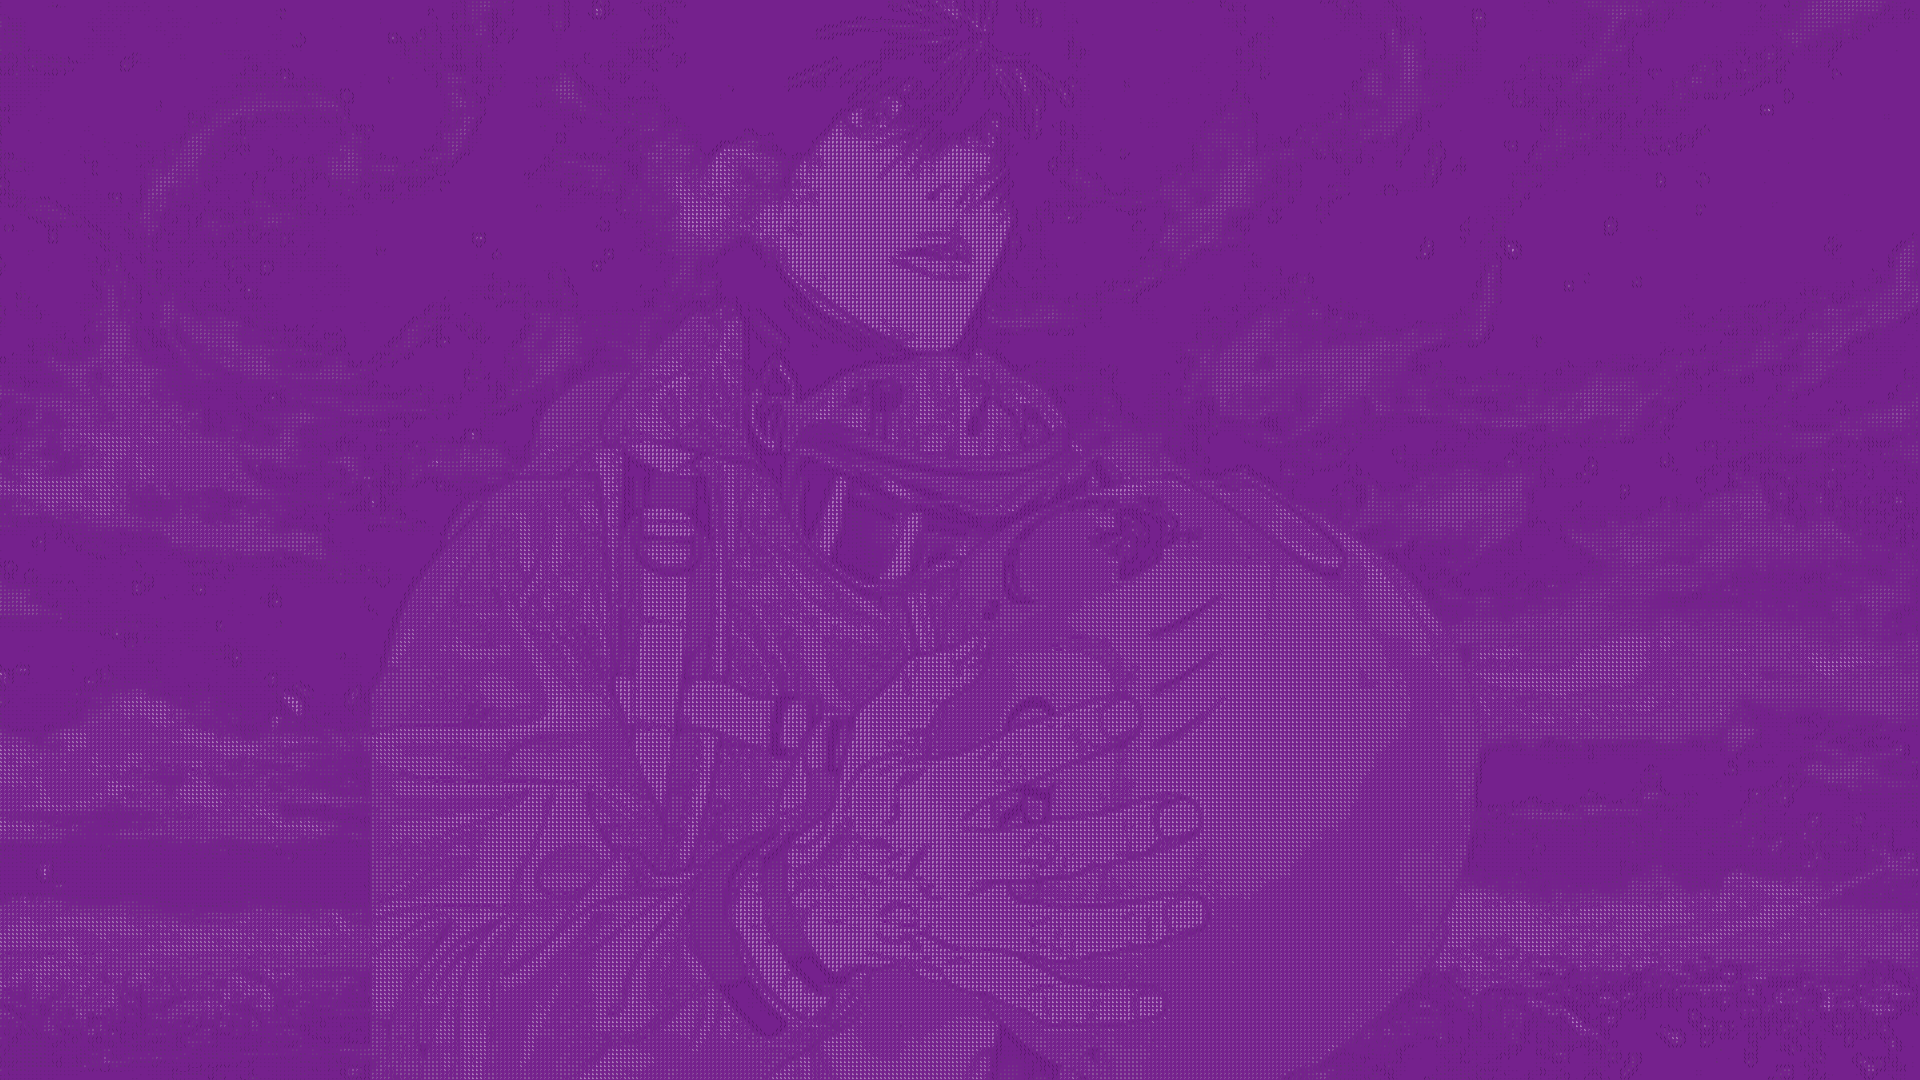
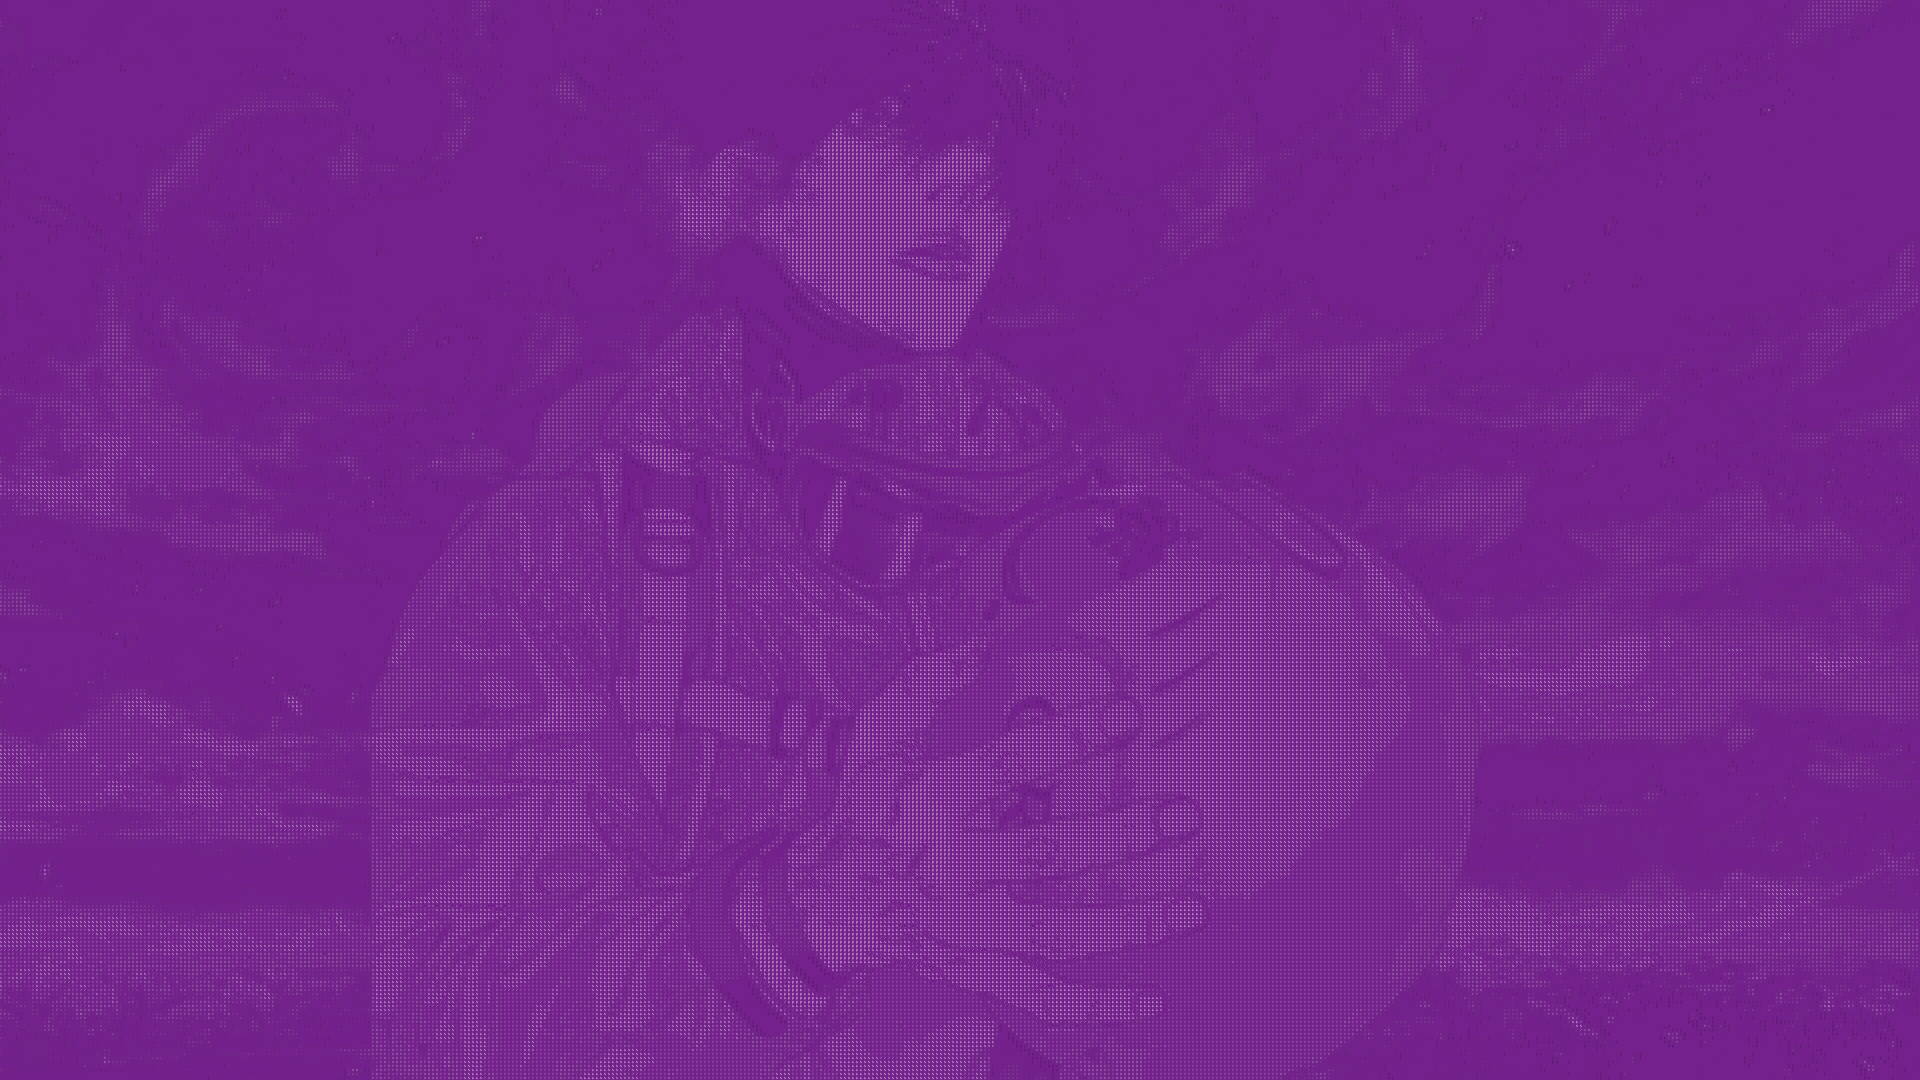
optimize image to arr conversion

diff --git a/src/ascii/converter.rs b/src/ascii/converter.rs
@@ -10,6 +10,8 @@ use image::io::Reader as ImageReader;
 use image::{DynamicImage, GenericImageView, ImageBuffer, Pixel, Rgb};
 use imageproc::drawing::draw_text_mut;
 use ndarray::{ArrayView2, Zip};
+use rayon::prelude::*;
+use std::sync::{Arc, Mutex};
 
 pub struct Converter {
     font_settings: FontSettings,
@@ -72,43 +74,68 @@ impl Converter {
     fn arr_to_img(
         &self,
         arr: &ArrayView2<char>,
-        arr_img: DynamicImage, // arr_img must be the same size as arr
+        arr_img: &DynamicImage,
     ) -> Result<ImageBuffer<Rgb<u8>, Vec<u8>>, ConvertError> {
-        let (h, w): (u32, u32) = (
+        let (h, w) = (
             arr.shape()[0] as u32 * self.font_settings.font_size,
             arr.shape()[1] as u32 * self.font_settings.font_size,
         );
 
-        let mut ascii_bufr =
-            ImageBuffer::<Rgb<u8>, Vec<u8>>::from_fn(w, h, |_, _| self.bg_color.clone());
+        let ascii_bufr = Arc::new(Mutex::new(ImageBuffer::<Rgb<u8>, Vec<u8>>::from_pixel(
+            w,
+            h,
+            self.bg_color.clone(),
+        )));
 
-        // Load font
         let (font, scale) = FontLoader::load_font_from_settings(&self.font_settings)?;
 
-        let mut color = self.color;
+        let font_size = self.font_settings.font_size;
+        let use_image_color = self.use_image_color;
+        let bg_color = self.bg_color;
+        let color = self.color;
 
-        for (y, row) in arr.outer_iter().enumerate() {
-            for (x, &ch) in row.iter().enumerate() {
-                let x_as_u32 = x as u32;
-                let y_as_u32 = y as u32;
+        arr.outer_iter()
+            .enumerate()
+            .collect::<Vec<_>>() // Collect rows to maintain order since par_iter might not preserve order
+            .par_iter() // Process rows in parallel
+            .for_each(|(y, row)| {
+                let mut local_bufr = ImageBuffer::from_pixel(w, font_size, bg_color.clone());
+                for (x, &ch) in row.iter().enumerate() {
+                    let x_pos = (x as u32 * font_size) as i32;
+                    let y_pos = 0; // local y position in the row buffer
 
-                if self.use_image_color {
-                    color = arr_img.get_pixel(x_as_u32, y_as_u32).to_rgb();
+                    let mut local_color = color.clone();
+                    if use_image_color {
+                        local_color = arr_img.get_pixel(x as u32, *y as u32).to_rgb();
+                    }
+                    draw_text_mut(
+                        &mut local_bufr,
+                        local_color,
+                        x_pos,
+                        y_pos,
+                        scale,
+                        &font,
+                        &ch.to_string(),
+                    );
                 }
 
-                draw_text_mut(
-                    &mut ascii_bufr,
-                    color,
-                    (x_as_u32 * self.font_settings.font_size) as i32,
-                    (y_as_u32 * self.font_settings.font_size) as i32,
-                    scale,
-                    &font,
-                    &ch.to_string(),
-                );
-            }
-        }
+                let mut ascii_bufr_lock = ascii_bufr.lock().unwrap();
 
-        Ok(ascii_bufr)
+                // Calculate the starting Y position for this row in the final image buffer
+                let start_y = *y as u32 * font_size;
+
+                // Merge the processed row into the final image buffer at the correct position
+                for (x, y, pixel) in local_bufr.enumerate_pixels() {
+                    ascii_bufr_lock.put_pixel(x, y + start_y, *pixel);
+                }
+            });
+
+        let final_bufr = Arc::try_unwrap(ascii_bufr)
+            .expect("Arc unwrap failed")
+            .into_inner()
+            .unwrap();
+
+        Ok(final_bufr)
     }
 
     pub fn convert_img(
@@ -182,7 +209,7 @@ impl Converter {
                 }
             });
 
-        let ascii_img = self.arr_to_img(&ds_edge_arr.view(), resized_img)?;
+        let ascii_img = self.arr_to_img(&ds_edge_arr.view(), &resized_img)?;
 
         // Save image
         ascii_img.save(out)?;

diff --git a/src/image_manip/edge_detect.rs b/src/image_manip/edge_detect.rs
@@ -55,45 +55,23 @@ impl EdgeDetect<u8, u8> for Sobel {
                 *theta_norm = (theta / PI) * 0.5 + 0.5;
             });
 
-        let space_mask = theta_arr_norm.mapv(|x| x == 0.5);
-        let vert_mask = theta_arr_norm.mapv(|x| 0.95 <= x && x <= 1.0);
-        let hori_mask =
-            theta_arr_norm.mapv(|x| ((x >= 0.25) && (x < 0.27)) || ((x >= 0.75) && (x < 0.77)));
-
-        // Mask for diagonal lines from left to right
-        let diag_mask_1 = theta_arr_norm.mapv(|x| {
-            (((x >= 0.0) && (x < 0.28)) || ((x >= 0.55) && (x < 0.78)))
-                && !((x >= 0.75) && (x < 0.77))
-                && !(x == 0.5)
-                && !((x >= 0.25) && (x < 0.27))
-        });
-        let diag_mask_2 = theta_arr_norm.mapv(|x| {
-            (((x >= 0.28) && (x < 0.55)) || ((x >= 0.78) && (x < 1.0)))
-                && !((x >= 0.75) && (x < 0.77))
-                && !(x == 0.5)
-                && !((x >= 0.25) && (x < 0.27))
+        let edges = theta_arr_norm.mapv(|x: f32| -> u8 {
+            // Default as 0 representing space character
+            let mut res = 0;
+            if x == 0.5 {
+                res = 0;
+            } else if x >= 0.95 && x <= 1.0 {
+                res = 2;
+            } else if ((x >= 0.25) && (x < 0.27)) || ((x >= 0.75) && (x < 0.77)) {
+                res = 1;
+            } else if ((x >= 0.28) && (x < 0.55)) || ((x >= 0.78) && (x < 1.0)) {
+                res = 3;
+            } else if ((x >= 0.28) && (x < 0.55)) || ((x >= 0.78) && (x < 1.0)) {
+                res = 4;
+            }
+            res
         });
 
-        let masks = vec![
-            (space_mask, 0),
-            (vert_mask, 2),
-            (hori_mask, 1),
-            (diag_mask_1, 3),
-            (diag_mask_2, 4),
-        ];
-
-        let mut edge_mapping = Array2::zeros((h as usize, w as usize));
-        // Apply the masks
-        for (mask, value) in masks {
-            Zip::from(&mask)
-                .and(&mut edge_mapping)
-                .for_each(|&mask_val, edge| {
-                    if mask_val {
-                        *edge = value;
-                    }
-                });
-        }
-
-        Ok(arr_to_bufr(&edge_mapping))
+        Ok(arr_to_bufr(&edges))
     }
 }

diff --git a/src/ascii/font_loader.rs b/src/ascii/font_loader.rs
@@ -18,9 +18,9 @@ impl FontSettings {
 
     pub fn default() -> Self {
         FontSettings {
-            // 4 is the optimal and smallest font size for displaying the characters correctly
+            // 6 is the optimal and smallest font size for displaying the characters correctly
             // with the default settings
-            font_size: 4,
+            font_size: 6,
             font_path: "font.ttf".to_string(),
         }
     }

diff --git a/src/main.rs b/src/main.rs
@@ -7,7 +7,7 @@ use std::time::Instant;
 fn main() {
     let start = Instant::now();
     let converter: Converter = ascii::converter::Converter::default();
-    let path = "2.png";
+    let path = "5.png";
     let _ = converter
         .convert_img(
             &format!("test/{}", path),
